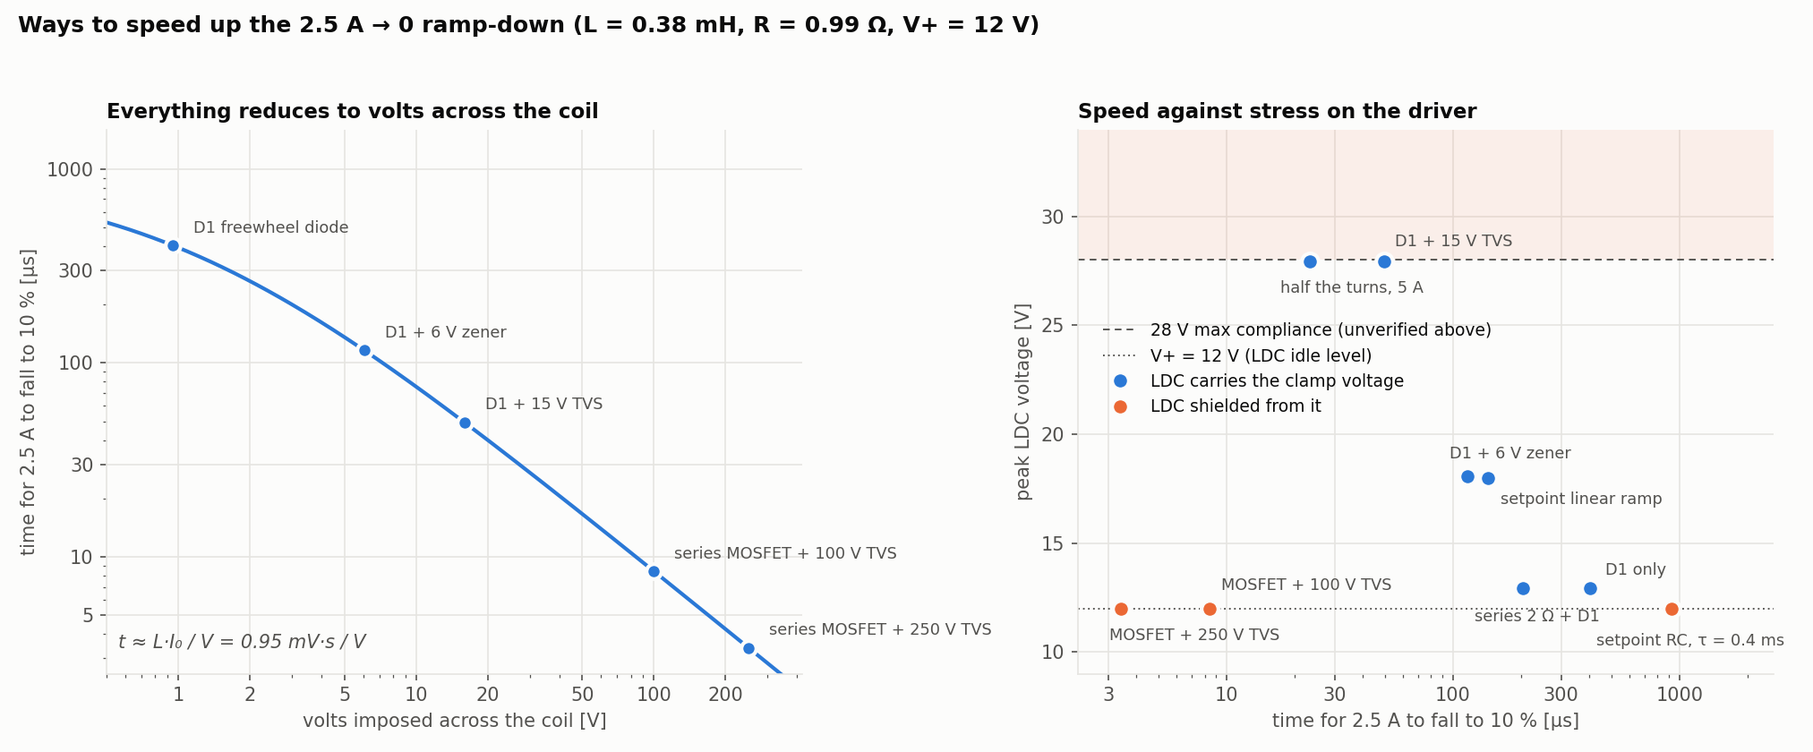
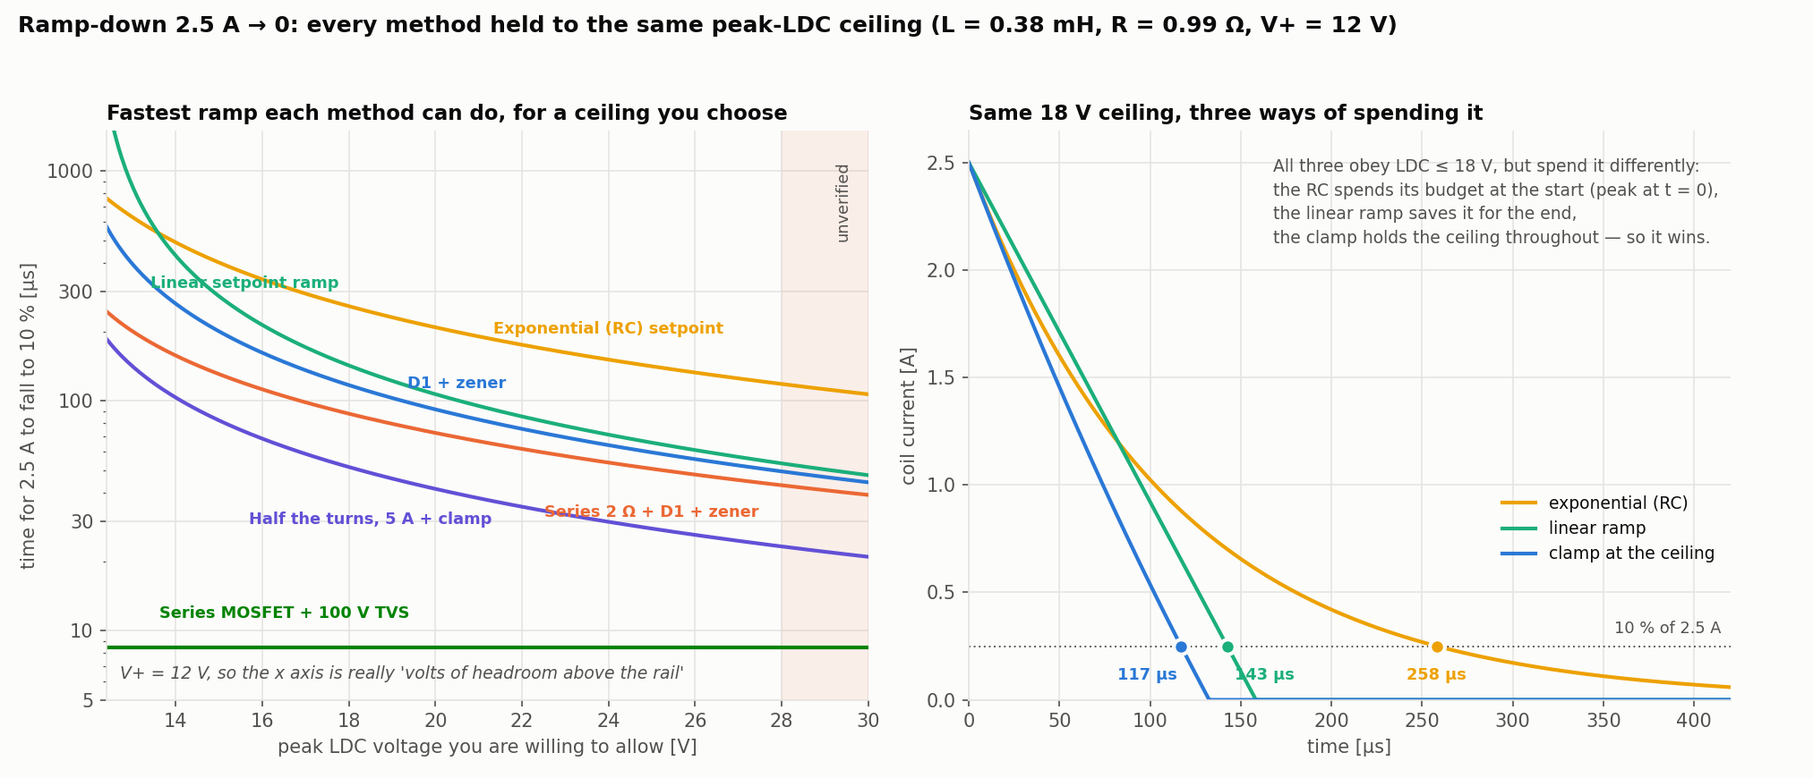
Compare ramp-speed methods at a common peak-LDC ceiling; mark L and R confirmed

diff --git a/scripts/ramp_speed_options.py b/scripts/ramp_speed_options.py
@@ -1,10 +1,13 @@
-"""Options for speeding up the 2.5 A -> 0 ramp-down, ranked by complexity.
+"""Fastest 2.5 A -> 0 ramp-down for each method, all held to the SAME peak-LDC ceiling.
 
-Governing relation: the coil opposes change with L di/dt, so with V volts imposed
-across it the current falls in roughly t ~ L*I0/V.  Exactly, with a clamp of
-voltage Vc in series with the loop resistance R:
-    i(t) = (I0 + Vc/R) exp(-t/tau) - Vc/R,  tau = L/R
-    t(i_f) = tau * ln((I0 R + Vc) / (i_f R + Vc))
+Confirmed load: L = 0.38 mH, R = 0.99 Ohm.  V+ = 12 V, I0 = 2.5 A.
+
+The coil only sheds current when LDC rises above V+:   L di/dt = V+ - LDC - i R.
+So with a ceiling LDC <= Vmax, let dV = Vmax - V+ be the voltage budget.
+The fastest possible trajectory holds LDC at the ceiling for the whole ramp,
+which is exactly what a constant-voltage clamp does:
+    t(i_f) = (L/R) ln((I0 R + dV) / (i_f R + dV))
+Any setpoint shape is at best equal to this, never better.
 Run: .venv/bin/python scripts/ramp_speed_options.py
 """
 import numpy as np
@@ -13,55 +16,49 @@ matplotlib.use("Agg")
 import matplotlib.pyplot as plt
 from matplotlib.ticker import FixedLocator, FuncFormatter, NullFormatter
 
-L, R0, VP, I0 = 0.38e-3, 0.99, 12.0, 2.5
-VF = 0.95                      # 1N5408 forward drop at ~2.5 A
+L, R, VP, I0, FRAC = 0.38e-3, 0.99, 12.0, 2.5, 0.10
 
 
-def t_decay(Vc, R=R0, frac=0.10, I=I0, Lh=L):
-    """Time for current to fall from I to frac*I against clamp Vc plus i*R."""
-    tau = Lh / R
-    return tau * np.log((I * R + Vc) / (frac * I * R + Vc))
+def t_clamp(dV, Lh=L, Rh=R, I=I0):
+    """Hold LDC at V+ + dV for the whole ramp -> time to fall to FRAC*I."""
+    return (Lh / Rh) * np.log((I * Rh + dV) / (FRAC * I * Rh + dV))
 
 
-def t_linear_ramp(dv):
-    """Linear setpoint ramp whose END overshoot above V+ is dv -> ramp time."""
-    return L * I0 / dv
+def t_rc(dV):
+    """Exponential setpoint. Peak LDC is at t=0 (current largest): dV = I0 (L/tau - R)."""
+    tau = L * I0 / (I0 * R + dV)
+    return tau * np.log(1 / FRAC)
 
 
-# name, parts, volts across coil at start, R in loop, peak LDC, note
-opts = [
-    ("0  Setpoint RC, tau = 0.4 ms", "none", None, None, 12.0, None),
-    ("0b Setpoint linear ramp", "none", None, None, 18.0, None),
-    ("1  D1 freewheel diode", "1 diode", VF, R0, VP + VF, None),
-    ("2  D1 + 6 V zener", "2 leaded parts", VF + 5.1, R0, VP + VF + 5.1, None),
-    ("3  D1 + 15 V TVS", "2 leaded parts", VF + 15.0, R0, VP + VF + 15.0, None),
-    ("4  Series 2 ohm + D1", "resistor + diode", VF, R0 + 2.0, VP + VF, None),
-    ("5  Half the turns, 5 A", "rewind coil", VF + 15.0, None, VP + VF + 15.0, None),
-    ("6  Series MOSFET + 100 V TVS", "FET + gate driver", 100.0, R0, VP, None),
-    ("7  Series MOSFET + 250 V TVS", "FET + gate driver", 250.0, R0, VP, None),
+def t_linear(dV):
+    """Linear setpoint. Peak LDC is at the END of the ramp: dV = L I0 / T."""
+    return (1 - FRAC) * L * I0 / dV
+
+
+RS = 2.0                                  # series power resistor
+L2, I2, R2 = L / 4, I0 * 2, 0.19 / 2 + 0.80   # half the turns, same ampere-turns
+V_FET = 100.0                             # MOSFET route: TVS sets this, LDC never sees it
+
+methods = [
+    ("Exponential (RC) setpoint",      lambda d: t_rc(d),                       "#eda100"),
+    ("Linear setpoint ramp",           lambda d: t_linear(d),                   "#1baf7a"),
+    ("D1 + zener  (= best possible)",  lambda d: t_clamp(d),                    "#2a78d6"),
+    ("Series 2 \u03a9 + D1 + zener",      lambda d: t_clamp(d, Rh=R + RS),         "#eb6834"),
+    ("Half the turns, 5 A + clamp",    lambda d: t_clamp(d, Lh=L2, Rh=R2, I=I2), "#6250d6"),
+    ("Series MOSFET + 100 V TVS",      lambda d: np.full_like(np.asarray(d, float), t_clamp(V_FET)), "#008300"),
 ]
 
-print(f"L*I0 = {L*I0*1e3:.2f} mV.s   tau = L/R = {L/R0*1e3:.3f} ms   I0*R = {I0*R0:.2f} V\n")
-print(f"{'option':34s} {'V across coil':>14s} {'t to 10%':>10s} {'t to 1%':>10s} {'peak LDC':>9s}")
-rows = []
-for name, parts, Vc, R, ldc, _ in opts:
-    if name.startswith("0 "):
-        t10, t1 = 0.4e-3 * np.log(10), 0.4e-3 * np.log(100)
-        Vshow = 0.0
-    elif name.startswith("0b"):
-        T = t_linear_ramp(ldc - VP); t10, t1, Vshow = 0.9 * T, 0.99 * T, ldc - VP
-    elif name.startswith("5"):
-        # half the turns at the same ampere-turns: L/4, I*2, R/2
-        Lh, Ih, Rh = L / 4, I0 * 2, 0.19 / 2 + 0.80
-        t10 = t_decay(Vc, Rh, 0.10, Ih, Lh); t1 = t_decay(Vc, Rh, 0.01, Ih, Lh); Vshow = Vc
-    else:
-        t10, t1 = t_decay(Vc, R), t_decay(Vc, R, 0.01); Vshow = Vc
-    rows.append((name, parts, Vshow, t10, t1, ldc))
-    print(f"{name:34s} {Vshow:12.1f} V {t10*1e6:8.0f} us {t1*1e6:8.0f} us {ldc:7.1f} V")
+ceilings = [13, 15, 18, 22, 28]
+print(f"L*I0 = {L*I0*1e3:.2f} mV.s   L/R = {L/R*1e3:.3f} ms   I0*R = {I0*R:.2f} V\n")
+print(f"{'method':32s}" + "".join(f"{'LDC<=' + str(c) + 'V':>11s}" for c in ceilings))
+table = {}
+for name, fn, _ in methods:
+    vals = [float(fn(np.array([c - VP], float))[0]) if "MOSFET" in name else float(fn(c - VP)) for c in ceilings]
+    table[name] = vals
+    print(f"{name:32s}" + "".join(f"{v*1e6:9.0f} us" for v in vals))
 
 # ---------------------------------------------------------------- figure
 BG, INK, INK2, GRID = "#fcfcfb", "#0b0b0b", "#52514e", "#e6e5e1"
-C_LIM, C_FREE = "#2a78d6", "#eb6834"
 plt.rcParams.update({"font.size": 10, "axes.edgecolor": GRID, "axes.labelcolor": INK2,
                      "xtick.color": INK2, "ytick.color": INK2, "text.color": INK,
                      "axes.facecolor": BG, "figure.facecolor": BG})
@@ -77,49 +74,59 @@ def plain(axis, ticks):
     axis.set_major_formatter(FuncFormatter(lambda v, _: f"{v:g}"))
     axis.set_minor_formatter(NullFormatter())
 
-fig, (a, b) = plt.subplots(1, 2, figsize=(13.5, 5.6))
+fig, (a, b) = plt.subplots(1, 2, figsize=(13.5, 5.8))
 
-# --- A: master curve. Only options that keep L and R unchanged sit on it.
-V = np.logspace(np.log10(0.5), np.log10(400), 300)
-a.loglog(V, t_decay(V) * 1e6, C_LIM, lw=2)
-on_curve = [("D1 freewheel diode", VF), ("D1 + 6 V zener", VF + 5.1),
-            ("D1 + 15 V TVS", VF + 15.0), ("series MOSFET + 100 V TVS", 100.0),
-            ("series MOSFET + 250 V TVS", 250.0)]
-for label, Vc in on_curve:
-    a.plot(Vc, t_decay(Vc) * 1e6, "o", ms=8, color=C_LIM, mec=BG, mew=2, zorder=5)
-    a.annotate(label, (Vc, t_decay(Vc) * 1e6), textcoords="offset points",
-               xytext=(11, 7), fontsize=8.5, color=INK2)
-a.set_xlim(0.5, 420); a.set_ylim(2.5, 1600)
-plain(a.xaxis, [1, 2, 5, 10, 20, 50, 100, 200]); plain(a.yaxis, [5, 10, 30, 100, 300, 1000])
-style(a, "Everything reduces to volts across the coil", "volts imposed across the coil [V]",
-      "time for 2.5 A to fall to 10 % [\u00b5s]")
-a.text(0.56, 3.4, "t \u2248 L\u00b7I\u2080 / V = 0.95 mV\u00b7s / V", fontsize=10, color=INK2, style="italic")
+# --- A: fastest ramp vs the LDC ceiling you allow
+Vmax = np.linspace(12.4, 30, 400)
+lab_at = {"Exponential (RC) setpoint": 24.0, "Linear setpoint ramp": 15.6,
+          "D1 + zener  (= best possible)": 20.5, "Series 2 \u03a9 + D1 + zener": 25.0,
+          "Half the turns, 5 A + clamp": 18.5, "Series MOSFET + 100 V TVS": 16.5}
+lab_dy = {"Exponential (RC) setpoint": 1.30, "Linear setpoint ramp": 1.30,
+          "D1 + zener  (= best possible)": 1.30, "Series 2 \u03a9 + D1 + zener": 0.62,
+          "Half the turns, 5 A + clamp": 0.60, "Series MOSFET + 100 V TVS": 1.35}
+for name, fn, c in methods:
+    y = fn(Vmax - VP) * 1e6
+    a.semilogy(Vmax, y, color=c, lw=2)
+    xl_ = lab_at[name]
+    yl_ = float(np.interp(xl_, Vmax, y)) * lab_dy[name]
+    a.text(xl_, yl_, name.replace("  (= best possible)", ""), color=c, fontsize=8.5,
+           ha="center", fontweight="bold")
+a.axvspan(28, 30, color="#eb6834", alpha=0.09, lw=0)
+a.text(29.6, 1100, "unverified", rotation=90, va="top", ha="right", fontsize=8.5, color=INK2)
+a.set_xlim(12.4, 30); a.set_ylim(5, 1500)
+plain(a.yaxis, [5, 10, 30, 100, 300, 1000])
+style(a, "Fastest ramp each method can do, for a ceiling you choose",
+      "peak LDC voltage you are willing to allow [V]", "time for 2.5 A to fall to 10 % [µs]")
+a.text(12.7, 6.2, "V+ = 12 V, so the x axis is really 'volts of headroom above the rail'",
+       fontsize=9, color=INK2, style="italic")
 
-# --- B: speed against stress on the driver
-b.axhspan(28, 34, color=C_FREE, alpha=0.09, lw=0)
-b.axhline(28, color=INK2, lw=0.9, ls=(0, (4, 3)), label="28 V max compliance (unverified above)")
-b.axhline(VP, color=INK2, lw=0.9, ls=(0, (1, 2)), label="V+ = 12 V (LDC idle level)")
-short = {"0  Setpoint RC, tau = 0.4 ms": "setpoint RC, \u03c4 = 0.4 ms", "0b Setpoint linear ramp": "setpoint linear ramp",
-         "1  D1 freewheel diode": "D1 only", "2  D1 + 6 V zener": "D1 + 6 V zener", "3  D1 + 15 V TVS": "D1 + 15 V TVS",
-         "4  Series 2 ohm + D1": "series 2 \u03a9 + D1", "5  Half the turns, 5 A": "half the turns, 5 A",
-         "6  Series MOSFET + 100 V TVS": "MOSFET + 100 V TVS", "7  Series MOSFET + 250 V TVS": "MOSFET + 250 V TVS"}
-off = {"0  Setpoint RC, tau = 0.4 ms": (-40, -20), "0b Setpoint linear ramp": (7, -14),
-       "1  D1 freewheel diode": (8, 7), "2  D1 + 6 V zener": (-10, 10),
-       "3  D1 + 15 V TVS": (6, 8), "4  Series 2 ohm + D1": (-26, -18),
-       "5  Half the turns, 5 A": (-16, -17), "6  Series MOSFET + 100 V TVS": (6, 10),
-       "7  Series MOSFET + 250 V TVS": (-6, -17)}
-for name, parts, Vs, t10, t1, ldc in rows:
-    free = ldc <= VP
-    b.plot(t10 * 1e6, ldc, "o", ms=9, color=C_FREE if free else C_LIM, mec=BG, mew=2, zorder=5)
-    b.annotate(short[name], (t10 * 1e6, ldc), textcoords="offset points",
-               xytext=off.get(name, (8, 6)), fontsize=8.5, color=INK2)
-b.set_xscale("log"); b.set_xlim(2.2, 2600); b.set_ylim(9, 34)
-plain(b.xaxis, [3, 10, 30, 100, 300, 1000])
-style(b, "Speed against stress on the driver", "time for 2.5 A to fall to 10 % [\u00b5s]", "peak LDC voltage [V]")
-b.plot([], [], "o", ms=9, color=C_LIM, mec=BG, mew=2, label="LDC carries the clamp voltage")
-b.plot([], [], "o", ms=9, color=C_FREE, mec=BG, mew=2, label="LDC shielded from it")
-b.legend(frameon=False, loc="center left", bbox_to_anchor=(0.015, 0.56), fontsize=9)
+# --- B: why the shapes differ, all tuned to the SAME 18 V ceiling
+CEIL = 18.0; dV = CEIL - VP
+t = np.linspace(0, 420e-6, 1200)
+tau_rc = L * I0 / (I0 * R + dV); i_rc = I0 * np.exp(-t / tau_rc)
+T_lin = L * I0 / dV; i_lin = np.clip(I0 * (1 - t / T_lin), 0, None)
+tau = L / R; i_cl = np.clip((I0 + dV / R) * np.exp(-t / tau) - dV / R, 0, None)
+cross = (tau_rc * np.log(1 / FRAC), (1 - FRAC) * T_lin,
+         tau * np.log((I0 * R + dV) / (FRAC * I0 * R + dV)))
+for i_, c, nm, tc, dx in ((i_rc, "#eda100", "exponential (RC)", cross[0], 0),
+                          (i_lin, "#1baf7a", "linear ramp", cross[1], 20),
+                          (i_cl, "#2a78d6", "clamp at the ceiling", cross[2], -18)):
+    b.plot(t * 1e6, i_, color=c, lw=2, label=nm)
+    b.plot(tc * 1e6, FRAC * I0, "o", ms=8, color=c, mec=BG, mew=2, zorder=5)
+    b.annotate(f"{tc*1e6:.0f} \u00b5s", (tc * 1e6, FRAC * I0), textcoords="offset points",
+               xytext=(dx, -18), ha="center", fontsize=8.5, color=c, fontweight="bold")
+b.axhline(0.25, color=INK2, lw=0.9, ls=(0, (1, 2)))
+b.text(415, 0.31, "10 % of 2.5 A", ha="right", fontsize=8.5, color=INK2)
+b.set_xlim(0, 420); b.set_ylim(0, 2.65)
+style(b, "Same 18 V ceiling, three ways of spending it", "time [µs]", "coil current [A]")
+b.legend(frameon=False, loc="center right", bbox_to_anchor=(1.0, 0.30), fontsize=9)
+b.text(168, 2.52,
+       "All three obey LDC ≤ 18 V, but spend it differently:\n"
+       "the RC spends its budget at the start (peak at t = 0),\n"
+       "the linear ramp saves it for the end,\n"
+       "the clamp holds the ceiling throughout — so it wins.",
+       fontsize=9, color=INK2, linespacing=1.5, va="top")
 
-fig.suptitle("Ways to speed up the 2.5 A \u2192 0 ramp-down (L = 0.38 mH, R = 0.99 \u03a9, V+ = 12 V)",
-             x=0.01, ha="left", fontsize=12, fontweight="bold")
+fig.suptitle("Ramp-down 2.5 A → 0: every method held to the same peak-LDC ceiling "
+             "(L = 0.38 mH, R = 0.99 Ω, V+ = 12 V)", x=0.01, ha="left", fontsize=12, fontweight="bold")
 fig.tight_layout(rect=(0, 0, 1, 0.95)); fig.savefig("docs/ramp_speed_options.png", dpi=150)

diff --git a/docs/ramp-speed-options.md b/docs/ramp-speed-options.md
@@ -1,68 +1,74 @@
-# Ways to speed up the ramp-down, simplest first
+# Ways to speed up the ramp-down, compared at a common limit
 
 ![options](ramp_speed_options.png)
 
-Script: [ramp_speed_options.py](../scripts/ramp_speed_options.py). Baseline: L = 0.38 mH, R = 0.99 Ω, I0 = 2.5 A, V+ = 12 V. Times are 2.5 A → 10 %.
+Script: [ramp_speed_options.py](../scripts/ramp_speed_options.py).
+Load: **L = 0.38 mH, R = 0.99 Ω (confirmed)**, I0 = 2.5 A, V+ = 12 V. All times are 2.5 A → 10 %.
 
-## The one equation behind every option
+## The common limit
 
-A coil only gives up its current when you put voltage across it:
+Comparing methods only means something if they are all held to the **same peak LDC voltage**, because that is the one thing that can damage the driver. Quoting a faster time that was bought by pushing LDC higher is not a faster method, it is just a riskier setting.
 
-> **t ≈ L·I₀ / V = 0.95 mV·s / V**
+So the question for every row below is the same: **given a ceiling on peak LDC, how fast can this method go?**
 
-1 V gets you about 950 µs, 10 V about 95 µs, 100 V about 9.5 µs. So every solution below is really the same question twice:
-1. **How many volts can I impose across the coil?**
-2. **Who absorbs them — the LD5CHA's LDC pin, or something else?**
+The ceiling is a choice, not a datasheet number — Wavelength publishes no maximum for the LDC pin. The table gives five of them. For reference, LDC already sits at V+ = 12 V whenever the coil is idle, and 28 V is the maximum compliance voltage of the part (at a 30 V supply), so above 28 V is unverified in every sense.
 
-Question 2 is what separates the cheap options from the fast ones. While the coil hangs directly on LDA and LDC, every volt of clamp lands on LDC, and LDC has no published rating. A series switch breaks that link, which is why it is the only route to the tens-of-microseconds range.
+## Why the clamp is the theoretical best
 
-## The ladder
+The coil only sheds current when LDC is pushed above V+:
 
-| # | Solution | Parts to add | V on coil | t to 10 % | Peak LDC | What keeps it safe |
-|---|---|---|---|---|---|---|
-| 0 | **Setpoint RC, τ = 0.4 ms** | none | 0 | **920 µs** | 12 V | τ ≥ L/R means LDC never rises above V+ at all |
-| 0b | **Setpoint linear ramp** | none | 6 | **143 µs** | 18 V | You pick the overshoot by choosing T; driver stays in regulation |
-| 1 | **D1 freewheel diode** | 1 diode (1N5408) | 0.95 | **400 µs** | 12.9 V | Diode carries the current; LDC only 1 V above rail |
-| 2 | **D1 + 6 V zener in series** | 2 leaded parts | 6.0 | **116 µs** | 18 V | Zener sets the clamp; 1.2 mJ per shot is trivial for a 1.5KE |
-| 3 | **D1 + 15 V TVS in series** | 2 leaded parts | 15.9 | **49 µs** | 27.9 V | At the 28 V compliance figure — the edge of what is defensible |
-| 4 | **Series 2 Ω resistor + D1 across both** | resistor + diode | 0.95 | **204 µs** | 12.9 V | Also moves ~12 W of heat out of the driver into the resistor |
-| 5 | **Rewind: half the turns, 5 A** | rewind the coil | 15.9 | **23 µs** | 27.9 V | Same field, but t ∝ N at fixed clamp. Needs 5 A (driver max) |
-| 6 | **Series MOSFET + 100 V TVS** | FET + isolated gate driver | 100 | **8 µs** | 12 V | FET opens first, so the 100 V lands on the FET and TVS, never on LDC |
-| 7 | **Series MOSFET + 250 V TVS** | FET (250 V) + gate driver | 250 | **3.4 µs** | 12 V | Same, with a higher-voltage FET |
+> L·di/dt = V+ − LDC − i·R
 
-## Notes on each
+To empty the coil as fast as possible under a ceiling LDC ≤ V_max, you want LDC pinned **at** the ceiling for the whole ramp. That is exactly what a constant-voltage clamp (D1 + zener) does. No setpoint shape can beat it; the best they can do is match it.
 
-**0 and 0b — setpoint shaping, free.** Covered in [ramp-down-analysis.md](ramp-down-analysis.md). An RC with τ ≈ 0.4 ms gives zero overshoot. A linear ramp trades overshoot for speed: T = L·I₀/ΔV, so the 143 µs figure assumes you accept LDC reaching 18 V. These only work while the driver stays in regulation, so they do nothing for an uncommanded cut.
+That is the point of the right-hand plot. All three traces obey the same 18 V ceiling, but the RC spends its voltage budget at the start (its peak is at t = 0, where the current is largest), the linear ramp saves it for the end, and only the clamp holds the ceiling throughout. Hence 117 µs vs 143 µs vs 258 µs for the *same* stress on the driver.
 
-**1 — D1 alone.** The cheapest real protection. It also covers the abrupt cases (fault trip, logic loss, unplugging) that setpoint shaping cannot. 400 µs is already faster than the no-overshoot RC, because the diode holds ~1 V across the coil the whole way down instead of ~0.
+## The comparison
 
-**2 and 3 — D1 plus a zener or TVS.** The natural extension: raise the clamp voltage, get proportionally faster. The series pair goes across the coil, cathode to cathode, so it blocks in normal operation. Energy per shot is 1.2 mJ, so even at 100 Hz that is 0.12 W and any 1.5KE part is oversized for it. **This is where I would stop without more information**, because option 3 puts LDC at 27.9 V, and the datasheet never rates that pin.
+Fastest 2.5 A → 10 % that each method can reach, held to each ceiling:
 
-**4 — series resistor.** Worth knowing because it pays twice: it speeds the freewheel decay (R_total 2.99 Ω instead of 0.99 Ω) *and* it drops driver dissipation from 24 W to about 11 W by moving the heat into a resistor you can mount anywhere. The catch: the resistor burns 12.5 W continuously, and D1 must go across the coil *and* the resistor together, or the resistor is not in the freewheel loop.
+| Method | LDC ≤ 13 V | ≤ 15 V | ≤ 18 V | ≤ 22 V | ≤ 28 V |
+|---|---|---|---|---|---|
+| Exponential (RC) setpoint | 629 µs | 400 µs | 258 µs | 175 µs | 118 µs |
+| Linear setpoint ramp | 855 µs | 285 µs | 143 µs | 86 µs | 53 µs |
+| **D1 + zener — best possible without a switch** | **393 µs** | **200 µs** | **117 µs** | **75 µs** | **49 µs** |
+| Series 2 Ω + D1 + zener | 201 µs | 131 µs | 88 µs | 62 µs | 43 µs |
+| Half the turns, 5 A + clamp | 141 µs | 82 µs | 52 µs | 35 µs | 23 µs |
+| **Series MOSFET + 100 V TVS** | **8 µs** | **8 µs** | **8 µs** | **8 µs** | **8 µs** |
 
-**5 — rewind the coil.** The one option that changes the physics instead of working around it. At fixed ampere-turns, halving N gives L/4 and 2·I, so L·I halves and the decay halves with it. Also halves the volt-seconds the clamp has to absorb. Costs a rewind and pushes you to 5 A, which is the LD5CHA's absolute maximum with no margin.
+Clamp part needed for each column: the zener drops (ceiling − 12 V − 0.95 V). At a 13 V ceiling that is D1 alone; at 18 V a ~5 V zener; at 28 V a ~15 V TVS.
 
-**6 and 7 — series MOSFET.** The only way past ~50 µs. The FET sits between the coil and LDC. When it opens, the coil dumps into a high-voltage TVS while LDC is isolated and actually falls toward 0. Peak LDC is just V+. The real limit here is **not** the TVS but the **gate driver**: the Si8751 from the earlier chat is specified at roughly 46 µs turn-off (unverified), which would dominate an 8 µs decay. A conventional isolated gate driver with its own floating supply turns off in well under 1 µs and would be the right choice. Sequence matters: open the FET first, then zero the setpoint, so the driver is not left saturated against an open load.
+## Reading the table
+
+- **The MOSFET row is flat.** That is the whole reason the complicated option exists. It is the only method whose speed does not depend on the ceiling, because the FET opens and the 100 V lands on the FET and its TVS while LDC is isolated and falls toward 0. Every other row buys speed by spending LDC headroom; this one does not.
+- **Setpoint shaping is free but suboptimal.** At any ceiling, the RC and the linear ramp are slower than the clamp that respects the same ceiling. They also only work while the driver is in regulation, so they do nothing for an uncommanded cut.
+- **RC vs linear changes order.** Below about a 13.6 V ceiling the RC wins; above it the linear ramp wins. Neither ever beats the clamp.
+- **A series 2 Ω resistor pays twice.** It speeds every clamp case (R_total 2.99 Ω instead of 0.99 Ω) *and* drops driver dissipation from 24 W to about 11 W by moving heat into a resistor you can mount anywhere. It costs 12.5 W in that resistor, and D1 must span the coil **and** the resistor or the resistor is not in the freewheel loop.
+- **Rewinding changes the physics.** At fixed ampere-turns, halving N gives L/4 and 2·I, so L·I halves and so does the time, at any ceiling. It costs a rewind and pushes you to 5 A, the LD5CHA's absolute maximum with no margin.
+
+## What limits the MOSFET option
+
+Not the TVS — the **gate driver**. The Si8751 named in the earlier chat is specified around 46 µs turn-off (unverified), which would completely swamp an 8 µs decay. A conventional isolated gate driver with its own floating supply turns off in well under 1 µs. Sequence matters too: open the FET first, then zero the setpoint, so the driver is not left saturated against an open load.
 
 ## Things that do not help
 
-- **Raising V+.** It speeds the ramp *up* (0.14 ms at 12 V vs 0.52 ms at 6 V) and does nothing for the ramp *down*. Current falls only when LDC rises above V+, so a higher rail just raises the bar. It also costs dissipation.
-- **The ENABLE pin.** The datasheet gives a 640 µs disable fall time and a 260 µs turn-off ramp — slower than a setpoint step, so it is a safety interlock, not a speed tool.
-- **A capacitor across the coil.** It rings with L rather than damping, and swings LDC negative.
+- **Raising V+.** Current only falls when LDC rises *above* V+, so a higher rail raises the bar it has to clear. It speeds the ramp *up* (0.14 ms at 12 V vs 0.52 ms at 6 V) and costs dissipation.
+- **The ENABLE pin.** Datasheet gives 640 µs disable fall time and a 260 µs turn-off ramp — slower than a setpoint step. It is an interlock, not a speed tool.
+- **A capacitor across the coil.** Rings with L rather than damping it, and swings LDC negative.
 
 ## The limit that may make all of this moot
 
-If this coil sits near a metal chamber, **eddy currents** in the mounts and walls keep the *field* alive after the *current* is gone. Those time constants are typically 100 µs to a few ms for stainless steel, and much shorter for glass cells. Chasing 8 µs in the current is pointless if the field takes 500 µs to die. Measure the field with a pickup coil or a magnetometer before buying a MOSFET.
+If the coil sits near a metal chamber, **eddy currents** in the mounts and walls keep the *field* alive after the *current* is gone — typically 100 µs to a few ms for stainless steel, much faster for a glass cell. Chasing 8 µs of current decay is wasted if the field takes 500 µs to die. Measure the field with a pickup coil or magnetometer before buying a MOSFET.
 
 ## Suggested path
 
-1. Fit **D1** now (option 1, 400 µs). It protects against the abrupt cases regardless of what else you do.
-2. Measure the **field** decay, not just the current. That tells you whether anything faster is useful.
-3. If you need faster and the field can follow, add a **zener in series with D1** (option 2, 116 µs) — two leaded parts, no rework.
-4. Only go to a **series MOSFET** (option 6) if you have measured that you need sub-50 µs, and budget a fast isolated gate driver, not the Si8751.
+1. **Fit D1 now.** At a 13 V ceiling it gives 393 µs, and it is the only thing here that also covers uncommanded interruptions.
+2. **Measure the field decay**, not just the current, and decide what speed is actually useful.
+3. **If you need faster**, add a zener in series with D1 — two leaded parts, no rework, and it is the best you can do without a switch.
+4. **Only go to a series MOSFET** if you have measured that you need sub-50 µs, and budget a fast isolated gate driver.
 
 ## Caveats
 
-- All figures are from the model, not the bench, and assume L = 0.38 mH and R = 0.99 Ω — neither has been measured on your hardware.
-- The datasheet gives **no maximum LDC voltage**. The 28 V line is the maximum compliance figure used as a stand-in, so options 3 and 5 are at an unverified boundary.
-- The 1N5408 forward drop is modelled as 0.95 V at 2.5 A.
+- L and R are confirmed; everything else here is modelled, not measured on the bench.
+- The 1N5408 forward drop is taken as 0.95 V at 2.5 A.
+- The datasheet gives **no maximum LDC voltage**. Which column you are allowed to use is an open question.

diff --git a/docs/coil-estimate.md b/docs/coil-estimate.md
@@ -49,6 +49,8 @@ L = 0.8 × 0.785 × 10⁴ / (5.32 + 5.32 + 5.91) = **380 µH**
 
 The two methods agree within about 2 %.
 
+> **Confirmed:** L = 0.38 mH and a total circuit R = 0.99 Ω (0.19 Ω coil + ~0.8 Ω cables) have since been confirmed on the hardware, matching the estimate below.
+
 ## Result (single coil)
 
 | Quantity | Estimate |
